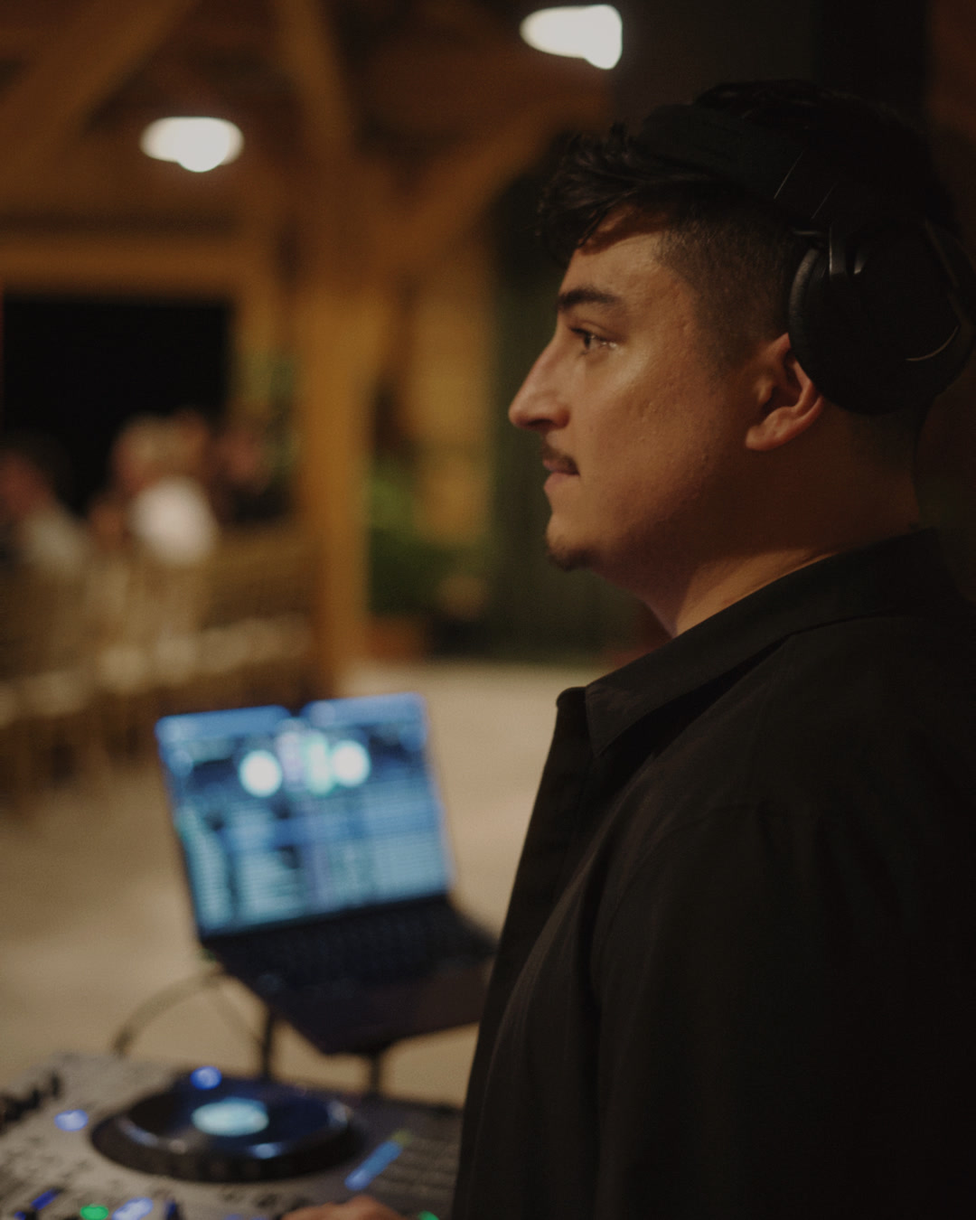
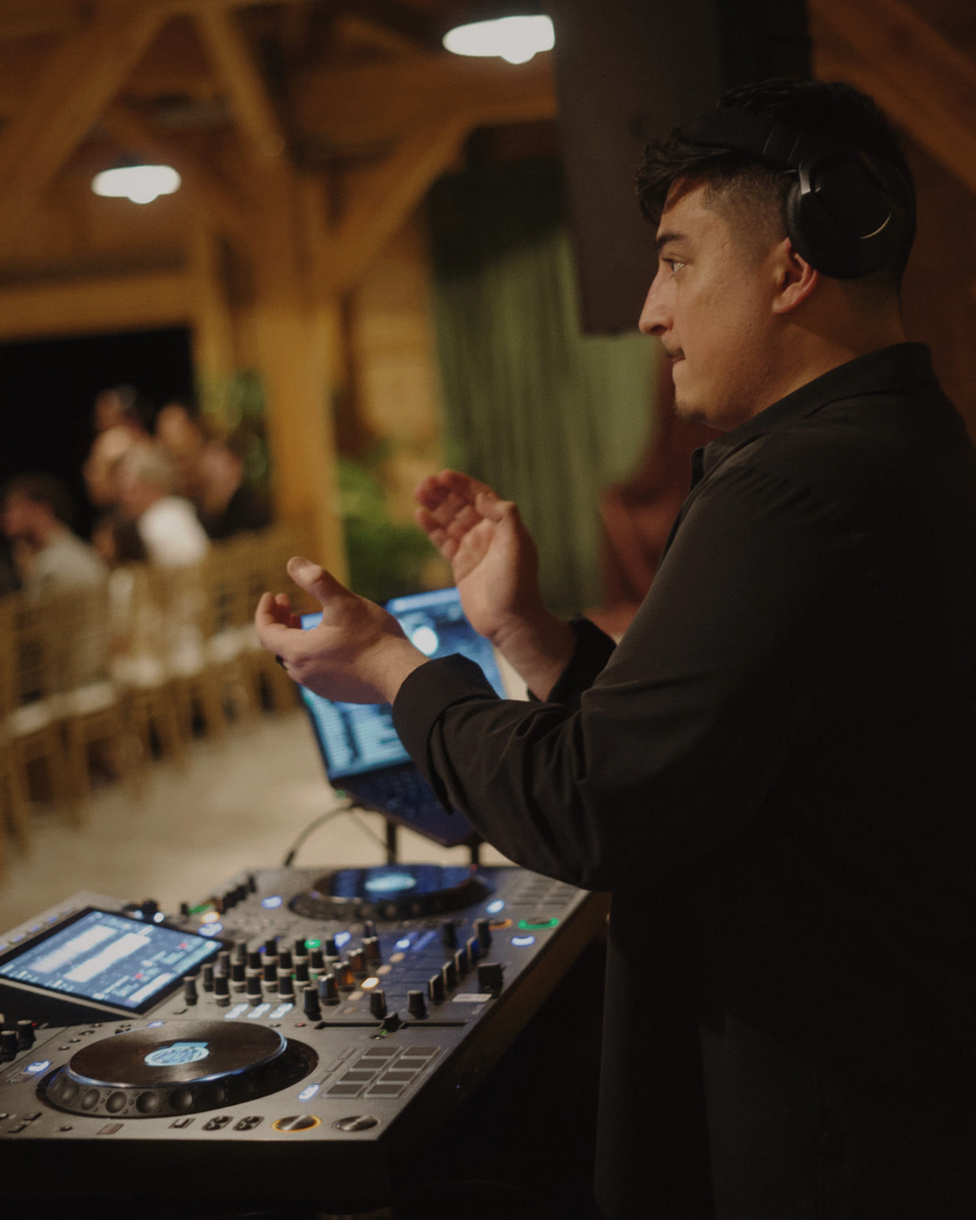
Privé: Alec's picks, window portrait as the header

diff --git a/residencies.html b/residencies.html
@@ -33,7 +33,7 @@
 <section class="proof"><div class="wrap"><dl class="nums"><div><dt>45</dt><dd>venues</dd></div><div><dt>11</dt><dd>residencies</dd></div><div><dt>7</dt><dd>headliners opened for</dd></div><div><dt>2017</dt><dd>active since</dd></div></dl></div></section>
 <section class="sec"><div class="wrap"><div class="head"><h2>Opened for</h2><p class="muted head-note">Handpicked to deliver opening sets for global electronic heavyweights.</p></div><div class="hls"><article class="hl"><h3>Alok</h3><p>House of Blues · 2017</p></article><article class="hl"><h3>Mochakk</h3><p>Wall Street Plaza · 2026</p></article><article class="hl"><h3>Cat Dealers</h3><p>The Attic · 2018</p></article><article class="hl"><h3>KVSH</h3><p>AURA Nightclub · 2024</p></article><article class="hl"><h3>Bhaskar</h3><p>The Vanguard · 2022</p></article><article class="hl"><h3>Victor Lou</h3><p>Celine Rooftop · 2024</p></article><article class="hl"><h3>Mr. Pauer</h3><p>Debonair Supper Club · 2025</p></article></div></div></section>
 <section class="sec"><div class="wrap"><div class="head"><h2>Residencies</h2><p class="muted head-note">Trusted selector for top-tier venues.</p></div><div class="rcs"><a class="rc pc" href="/works/the-h-orlando/"><div class="ph"><video class="loop" muted loop playsinline preload="none" aria-hidden="true" data-src-webm="/assets/img/video/rooms/the-h-orlando.webm" data-src-mp4="/assets/img/video/rooms/the-h-orlando.mp4"></video><img src="/assets/img/rooms/the-h-orlando/hero.jpg" style="object-position:50% 70%" data-face="0.526,0.418,0.715,0.619" data-wh="1200,1500" alt="Oteo at The H Orlando" loading="lazy"></div><div class="rt"><h3>The H Orlando</h3><p>2021 – 2022, 2026 · Dr. Phillips</p></div></a><a class="rc pc" href="/works/helena-modern-riviera/"><div class="ph"><video class="loop" muted loop playsinline preload="none" aria-hidden="true" data-src-webm="/assets/img/video/rooms/helena-modern-riviera.webm" data-src-mp4="/assets/img/video/rooms/helena-modern-riviera.mp4"></video><img src="/assets/img/ring-5.jpg" style="object-position:50% 33%" data-face="0.067,0.178,0.537,0.571" data-wh="900,1286" alt="Oteo at Helena Modern Riviera" loading="lazy"></div><div class="rt"><h3>Helena Modern Riviera</h3><p>2024 – 2026 · International Drive</p></div></a><a class="rc pc" href="/works/ava-mediterraegean/"><div class="ph"><video class="loop" muted loop playsinline preload="none" aria-hidden="true" data-src-webm="/assets/img/video/rooms/ava-mediterraegean.webm" data-src-mp4="/assets/img/video/rooms/ava-mediterraegean.mp4"></video><img src="/assets/img/rooms/ava-mediterraegean/hero.jpg" style="object-position:50% 20%" data-face="0.269,0.159,0.551,0.375" data-wh="901,1600" alt="Oteo at AVA MediterrAegean" loading="lazy"></div><div class="rt"><h3>AVA MediterrAegean</h3><p>2022 – 2024 · Winter Park</p></div></a><a class="rc pc" href="/works/debonair-supper-club/"><div class="ph"><video class="loop" muted loop playsinline preload="none" aria-hidden="true" data-src-webm="/assets/img/video/rooms/debonair-supper-club.webm" data-src-mp4="/assets/img/video/rooms/debonair-supper-club.mp4"></video><img src="/assets/img/rooms/debonair-supper-club/hero.jpg" style="object-position:50% 44%" data-face="0.406,0.28,0.656,0.539" data-wh="1200,1500" alt="Oteo at Debonair Supper Club" loading="lazy"></div><div class="rt"><h3>Debonair Supper Club</h3><p>2024 – 2026 · Downtown Orlando</p></div></a><a class="rc pc" href="/works/casa-mezcal/"><div class="ph"><img src="/assets/img/rooms/casa-mezcal/hero.jpg" style="object-position:50% 29%" data-face="0.449,0.197,0.701,0.472" data-wh="864,1080" alt="Oteo at Casa Mezcal" loading="lazy"></div><div class="rt"><h3>Casa Mezcal</h3><p>2026 · International Drive</p></div></a></div><div class="rcs small"><div class="rc sm"><h3>The Eye Orlando</h3><p>2024 – 2025 · International Drive</p></div><div class="rc sm"><h3>Elixir Orlando</h3><p>2018 – 2021 · Downtown Orlando</p></div><div class="rc sm"><h3>La Herradura</h3><p>2021 – 2024 · Orlando</p></div><div class="rc sm"><h3>The Lawn Bar at ICON Park</h3><p>2021 – 2023 · International Drive</p></div><div class="rc sm"><h3>Taverna Opa</h3><p>2018 – 2021 · International Drive</p></div><div class="rc sm"><h3>Bullitt Bar</h3><p>2020 – 2021 · Downtown Orlando</p></div></div></div></section>
-<section class="sec" id="work"><div class="wrap"><div class="head"><h2>Client work</h2><p class="muted head-note">Recent events, newest first.</p></div><div class="grid2"><a class="card" href="/work/prive-intimate-runway-florida-fashion-shows-2026/"><div class="ph"><img src="/assets/img/work/prive-intimate-runway-florida-fashion-shows-2026/hero.jpg" style="object-position:50% 6%" data-face="0.226,0.067,0.549,0.393" data-wh="1080,1350" alt="Oteo DJing Privé: An Intimate Runway" loading="lazy"></div><h3>Privé: An Intimate Runway</h3><p>Florida Fashion Shows · November 22, 2026</p></a><a class="card" href="/work/golden-night-orlando-style-magazine-2026/"><div class="ph"><img src="/assets/img/work/golden-night-orlando-style-magazine-2026/hero.jpg" style="object-position:0% 50%" data-face="0.262,0.273,0.438,0.516" data-wh="1140,1200" alt="Oteo DJing Golden Night" loading="lazy"></div><h3>Golden Night</h3><p>Orlando Style Magazine × Florida Fashion Shows · November 20, 2026</p></a></div><div class="rcs small gig-more"><div class="rc sm"><h3>EDC Orlando After Party</h3><p>Tom’s Watch Bar, Blue Room · November 7, 2026</p></div></div></div></section>
+<section class="sec" id="work"><div class="wrap"><div class="head"><h2>Client work</h2><p class="muted head-note">Recent events, newest first.</p></div><div class="grid2"><a class="card" href="/work/prive-intimate-runway-florida-fashion-shows-2026/"><div class="ph"><img src="/assets/img/work/prive-intimate-runway-florida-fashion-shows-2026/hero.jpg" style="object-position:50% 39%" data-face="0.433,0.249,0.616,0.501" data-wh="1080,1350" alt="Oteo DJing Privé: An Intimate Runway" loading="lazy"></div><h3>Privé: An Intimate Runway</h3><p>Florida Fashion Shows · November 22, 2026</p></a><a class="card" href="/work/golden-night-orlando-style-magazine-2026/"><div class="ph"><img src="/assets/img/work/golden-night-orlando-style-magazine-2026/hero.jpg" style="object-position:0% 50%" data-face="0.262,0.273,0.438,0.516" data-wh="1140,1200" alt="Oteo DJing Golden Night" loading="lazy"></div><h3>Golden Night</h3><p>Orlando Style Magazine × Florida Fashion Shows · November 20, 2026</p></a></div><div class="rcs small gig-more"><div class="rc sm"><h3>EDC Orlando After Party</h3><p>Tom’s Watch Bar, Blue Room · November 7, 2026</p></div></div></div></section>
 <section class="strip" aria-label="Oteo in the booth"><ul class="strip-track"><li><img src="/assets/img/strip/s1.jpg" style="object-position:50% 49%" data-face="0.181,0.305,0.393,0.561" data-wh="720,900" alt="Oteo in the booth at Palm Tree Club" width="720" height="900" loading="lazy"></li><li><img src="/assets/img/strip/s2.jpg" style="object-position:50% 48%" data-face="0.296,0.237,0.757,0.693" data-wh="720,900" alt="Oteo in the booth at Palm Tree Club" width="720" height="900" loading="lazy"></li><li><img src="/assets/img/strip/s3.jpg" style="object-position:50% 26%" data-face="0.085,0.182,0.284,0.408" data-wh="720,900" alt="Oteo in the booth at House of Blues" width="720" height="900" loading="lazy"></li><li><img src="/assets/img/strip/s4.jpg" style="object-position:50% 5%" data-face="0.569,0.061,0.792,0.419" data-wh="720,900" alt="Oteo in the booth at Debonair Supper Club" width="720" height="900" loading="lazy"></li><li><img src="/assets/img/strip/s5.jpg" style="object-position:50% 11%" data-face="0.309,0.094,0.597,0.423" data-wh="720,900" alt="Oteo in the booth at The H Orlando" width="720" height="900" loading="lazy"></li><li><img src="/assets/img/strip/s6.jpg" style="object-position:50% 12%" data-face="0.354,0.102,0.695,0.415" data-wh="720,900" alt="Oteo in the booth at Great Southern Box Co." width="720" height="900" loading="lazy"></li><li><img src="/assets/img/strip/s7.jpg" style="object-position:50% 12%" data-face="0.361,0.101,0.708,0.416" data-wh="720,900" alt="Oteo in the booth at The Tap" width="720" height="900" loading="lazy"></li><li aria-hidden="true"><img src="/assets/img/strip/s1.jpg" style="object-position:50% 49%" data-face="0.181,0.305,0.393,0.561" data-wh="720,900" alt="" width="720" height="900" loading="lazy"></li><li aria-hidden="true"><img src="/assets/img/strip/s2.jpg" style="object-position:50% 48%" data-face="0.296,0.237,0.757,0.693" data-wh="720,900" alt="" width="720" height="900" loading="lazy"></li><li aria-hidden="true"><img src="/assets/img/strip/s3.jpg" style="object-position:50% 26%" data-face="0.085,0.182,0.284,0.408" data-wh="720,900" alt="" width="720" height="900" loading="lazy"></li><li aria-hidden="true"><img src="/assets/img/strip/s4.jpg" style="object-position:50% 5%" data-face="0.569,0.061,0.792,0.419" data-wh="720,900" alt="" width="720" height="900" loading="lazy"></li><li aria-hidden="true"><img src="/assets/img/strip/s5.jpg" style="object-position:50% 11%" data-face="0.309,0.094,0.597,0.423" data-wh="720,900" alt="" width="720" height="900" loading="lazy"></li><li aria-hidden="true"><img src="/assets/img/strip/s6.jpg" style="object-position:50% 12%" data-face="0.354,0.102,0.695,0.415" data-wh="720,900" alt="" width="720" height="900" loading="lazy"></li><li aria-hidden="true"><img src="/assets/img/strip/s7.jpg" style="object-position:50% 12%" data-face="0.361,0.101,0.708,0.416" data-wh="720,900" alt="" width="720" height="900" loading="lazy"></li></ul></section>
 <section class="sec"><div class="wrap"><div class="head"><h2>Notable venues</h2></div><div class="rcs small two-col"><div class="rc sm"><h3>4Roots Farm</h3><p>2026 · Packing District</p></div><div class="rc sm"><h3>American Social</h3><p>2022 – 2023, 2025 – 2026 · Dr. Phillips</p></div><div class="rc sm"><h3>Aphrodisiaco</h3><p>2026 · International Drive</p></div><div class="rc sm"><h3>The Attic</h3><p>2018 · Downtown Orlando</p></div><div class="rc sm"><h3>AURA Nightclub</h3><p>2024 · Downtown Orlando</p></div><div class="rc sm"><h3>The Black Barn</h3><p>2025 · East Orlando</p></div><div class="rc sm"><h3>Boxi Park</h3><p>2022 · Lake Nona</p></div><div class="rc sm"><h3>Breeze Kissimmee</h3><p>2026 · Kissimmee</p></div><div class="rc sm"><h3>Celine Rooftop</h3><p>2024 – 2025 · Downtown Orlando</p></div><div class="rc sm"><h3>The Citrus Club</h3><p>2026 · Downtown Orlando</p></div><div class="rc sm"><h3>Corazón by Baires</h3><p>2025 · Orlando</p></div><div class="rc sm"><h3>Great Southern Box Co.</h3><p>2025 – 2026 · Orlando</p></div><div class="rc sm"><h3>The Hampton Social</h3><p>2024 · International Drive</p></div><div class="rc sm"><h3>House of Blues</h3><p>2017 · Disney Springs</p></div><div class="rc sm"><h3>Lake Eola Lounge</h3><p>2025 · Downtown Orlando</p></div><div class="rc sm"><h3>Lumiere</h3><p>2025 · Maitland</p></div><div class="rc sm"><h3>Luminescent</h3><p>2025 · East Orlando</p></div><div class="rc sm"><h3>Mango’s Tropical Café</h3><p>2025 – 2026 · International Drive</p></div><div class="rc sm"><h3>The Monroe</h3><p>2025 · Downtown Orlando</p></div><div class="rc sm"><h3>The Nectar Room at The Wave Hotel</h3><p>2025 · Lake Nona</p></div><div class="rc sm"><h3>OHM Orlando</h3><p>2026 · Downtown Orlando</p></div><div class="rc sm"><h3>Palm Tree Club</h3><p>2026 · International Drive</p></div><div class="rc sm"><h3>Penthouse+</h3><p>2026 · Downtown Orlando</p></div><div class="rc sm"><h3>Pretty Please</h3><p>2024 · Downtown Orlando</p></div><div class="rc sm"><h3>Say Less</h3><p>2026 · Downtown Orlando</p></div><div class="rc sm"><h3>Sessions Orlando</h3><p>2026 · Downtown Orlando</p></div><div class="rc sm"><h3>Sonydam Auto Sales</h3><p>2023 · Orlando</p></div><div class="rc sm"><h3>Taco Kat</h3><p>2024 · Downtown Orlando</p></div><div class="rc sm"><h3>Taqueale</h3><p>2026 · St. Cloud</p></div><div class="rc sm"><h3>They Flow</h3><p>2025 · Orlando</p></div><div class="rc sm"><h3>Tom’s Watch Bar</h3><p>2026 · International Drive</p></div><div class="rc sm"><h3>The Vanguard</h3><p>2022 · Downtown Orlando</p></div><div class="rc sm"><h3>The Vintage Speakeasy Bistro</h3><p>2025 · Orlando</p></div><div class="rc sm"><h3>Wall Street Plaza</h3><p>2026 · Downtown Orlando</p></div></div></div></section>
 <section class="sec" id="praise"><div class="wrap"><div class="head"><h2>Press</h2></div><div class="cols2 praise"><figure class="q"><blockquote>“The music was great so we had to see if it was pre-recorded or from a live DJ. It was the latter! In the booth, DJ Oteo (USA). … Oteo had the club bouncing. People were dancing pretty much anywhere they could.”</blockquote><figcaption><a class="ulink" href="https://www.orlandoentertainmentnews.com/?p=27206" rel="noopener">Orlando Entertainment News, March 30, 2024</a></figcaption></figure><figure class="q"><blockquote>“Friday/Saturday night resident DJ Oteo (USA) was in the corner booth. Pumping out House music during our visit.”</blockquote><figcaption><a class="ulink" href="https://www.orlandoentertainmentnews.com/?p=28949" rel="noopener">Orlando Entertainment News, July 27, 2024</a></figcaption></figure><figure class="q"><blockquote>“And it’s here we found DJ Oteo (USA) on the decks at one end of the building. The DJ begins at 10PM while many are still dining but things don’t get cranked up until after 11PM. By midnight they’ll clear a bunch of tables to create a dance floor.”</blockquote><figcaption><a class="ulink" href="https://www.orlandoentertainmentnews.com/?p=11343" rel="noopener">Orlando Entertainment News, July 17, 2021</a></figcaption></figure><figure class="q"><blockquote>“DJ Oteo … starts spinning, and the entire energy transforms. We’re talking big bass, real energy.”</blockquote><figcaption><a class="ulink" href="https://agoodtaco.com/steak-smoke-sound-the-h-orlando-review-nobody-warned-your-taste-buds-about" rel="noopener">A Good Taco, June 24, 2025</a></figcaption></figure></div></div></section>

diff --git a/fashion-show-dj-orlando.html b/fashion-show-dj-orlando.html
@@ -28,12 +28,12 @@
 </div></header>
 <div class="sheet" id="sheet" hidden><div class="wrap"><nav aria-label="Main"><a href="/residencies">Track Record</a><a href="/blog/">Sets</a><a href="/rentals">Gear Rentals</a><a href="/about">About</a><a href="/presskit">Press Kit</a></nav><a class="btn" href="/booking#inquiry">Book a date</a></div></div>
 <main id="main">
-<section class="hero room-hero"><div class="wrap hero-grid"><div class="hero-ph"><img src="/assets/img/events/fashion-shows.jpg" style="object-position:50% 39%" data-face="0.433,0.249,0.616,0.501" data-wh="1080,1350" alt="Oteo DJing" fetchpriority="high"></div>
+<section class="hero room-hero"><div class="wrap hero-grid"><div class="hero-ph"><img src="/assets/img/events/fashion-shows.jpg" style="object-position:50% 6%" data-face="0.226,0.067,0.549,0.393" data-wh="1080,1350" alt="Oteo DJing" fetchpriority="high"></div>
 <div class="hero-copy"><p class="kicker">Fashion shows</p><h1 class="room-h1" style="--len:7">Fashion show DJ in Orlando</h1><p class="lead">Runway shows, designer showcases and fashion parties across Central Florida.</p>
 <div class="ctas"><a class="btn" href="/booking#inquiry">Book a date</a></div></div></div></section>
 <section class="sec"><div class="wrap split"><h2>The night</h2><div class="stack prose"><p>Oteo plays fashion House: polished, upbeat and made for the runway. He tailors the music to the designer’s direction, cues it to the run of show, and carries the room before and after the walk.</p><p>Recent shows include Golden Night for Orlando Style Magazine × Florida Fashion Shows and Privé: An Intimate Runway for Florida Fashion Shows. He brings his own Pioneer DJ and AlphaTheta decks and PA, delivered and set up anywhere in Central Florida, or plays on the venue’s system.</p></div></div></section>
 <section class="sec"><div class="wrap split"><h2>Included</h2><div class="list"><div class="li"><h3>Runway soundtrack</h3><p>Fashion House tailored to the designer’s direction and cued to the run of show.</p></div><div class="li"><h3>Reception and after-party</h3><p>Music for arrivals, the cocktail hour and the celebration that follows.</p></div><div class="li"><h3>Sound and DJ production</h3><p>Professional sound and a DJ booth, installed before doors open.</p></div></div></div></section>
-<section class="sec"><div class="wrap"><div class="head"><h2>Recent shows</h2></div><div class="grid2"><a class="card" href="/work/prive-intimate-runway-florida-fashion-shows-2026/"><div class="ph"><img src="/assets/img/work/prive-intimate-runway-florida-fashion-shows-2026/hero.jpg" style="object-position:50% 6%" data-face="0.226,0.067,0.549,0.393" data-wh="1080,1350" alt="Oteo DJing Privé: An Intimate Runway" loading="lazy"></div><h3>Privé: An Intimate Runway</h3><p>Florida Fashion Shows · November 22, 2026</p></a><a class="card" href="/work/golden-night-orlando-style-magazine-2026/"><div class="ph"><img src="/assets/img/work/golden-night-orlando-style-magazine-2026/hero.jpg" style="object-position:0% 50%" data-face="0.262,0.273,0.438,0.516" data-wh="1140,1200" alt="Oteo DJing Golden Night" loading="lazy"></div><h3>Golden Night</h3><p>Orlando Style Magazine × Florida Fashion Shows · November 20, 2026</p></a></div></div></section>
+<section class="sec"><div class="wrap"><div class="head"><h2>Recent shows</h2></div><div class="grid2"><a class="card" href="/work/prive-intimate-runway-florida-fashion-shows-2026/"><div class="ph"><img src="/assets/img/work/prive-intimate-runway-florida-fashion-shows-2026/hero.jpg" style="object-position:50% 39%" data-face="0.433,0.249,0.616,0.501" data-wh="1080,1350" alt="Oteo DJing Privé: An Intimate Runway" loading="lazy"></div><h3>Privé: An Intimate Runway</h3><p>Florida Fashion Shows · November 22, 2026</p></a><a class="card" href="/work/golden-night-orlando-style-magazine-2026/"><div class="ph"><img src="/assets/img/work/golden-night-orlando-style-magazine-2026/hero.jpg" style="object-position:0% 50%" data-face="0.262,0.273,0.438,0.516" data-wh="1140,1200" alt="Oteo DJing Golden Night" loading="lazy"></div><h3>Golden Night</h3><p>Orlando Style Magazine × Florida Fashion Shows · November 20, 2026</p></a></div></div></section>
 
 <section class="sec"><div class="wrap split"><h2>Questions</h2><div class="faq"><details><summary>Can the music follow our reference?<span class="x" aria-hidden="true"></span></summary><p>Yes. Send a show or a playlist you like and he builds the set around it.</p></details><details><summary>Can he time the music to the runway?<span class="x" aria-hidden="true"></span></summary><p>Yes. Send the run of show with the designer order and the cues.</p></details><details><summary>Does he bring sound?<span class="x" aria-hidden="true"></span></summary><p>Yes. Speakers and decks come from his own gear.</p></details></div></div></section>
 <section class="sec"><div class="wrap split"><h2>More</h2><div class="stack"><p><a class="more" href="/residencies">Every venue he has played</a></p><p><a class="more" href="/wedding-dj-orlando">Weddings</a></p><p><a class="more" href="/corporate-event-dj-orlando">Corporate events</a></p><p><a class="more" href="/private-party-dj-orlando">Private parties</a></p><p><a class="more" href="/restaurant-lounge-dj-orlando">Restaurants and lounges</a></p></div></div></section>

diff --git a/work/prive-intimate-runway-florida-fashion-shows-2026/index.html b/work/prive-intimate-runway-florida-fashion-shows-2026/index.html
@@ -28,11 +28,11 @@
 </div></header>
 <div class="sheet" id="sheet" hidden><div class="wrap"><nav aria-label="Main"><a href="/residencies">Track Record</a><a href="/blog/">Sets</a><a href="/rentals">Gear Rentals</a><a href="/about">About</a><a href="/presskit">Press Kit</a></nav><a class="btn" href="/booking#inquiry">Book a date</a></div></div>
 <main id="main">
-<section class="hero room-hero"><div class="wrap hero-grid"><div class="hero-ph"><img src="/assets/img/work/prive-intimate-runway-florida-fashion-shows-2026/hero.jpg" style="object-position:50% 6%" data-face="0.226,0.067,0.549,0.393" data-wh="1080,1350" alt="Oteo DJing Privé: An Intimate Runway" fetchpriority="high"></div>
+<section class="hero room-hero"><div class="wrap hero-grid"><div class="hero-ph"><img src="/assets/img/work/prive-intimate-runway-florida-fashion-shows-2026/hero.jpg" style="object-position:50% 39%" data-face="0.433,0.249,0.616,0.501" data-wh="1080,1350" alt="Oteo DJing Privé: An Intimate Runway" fetchpriority="high"></div>
 <div class="hero-copy"><p class="kicker">Florida Fashion Shows</p><h1 class="room-h1" style="--len:8">Privé: An Intimate Runway</h1><p class="lead">An afternoon runway presentation by Florida Fashion Shows at 4Roots Farm, Orlando, with music by Oteo.</p></div></div></section>
 <section class="proof"><div class="wrap"><dl class="facts"><div><dt>Presented by</dt><dd>Florida Fashion Shows</dd></div><div><dt>Event</dt><dd>Fashion show</dd></div><div><dt>Date</dt><dd>November 22, 2026</dd></div><div><dt>Venue</dt><dd>4Roots Farm, Packing District, Orlando</dd></div></dl></div></section>
 <section class="sec"><div class="wrap split"><h2>The event</h2><div class="stack prose"><p>Privé: An Intimate Runway brought three designers to one runway at 4Roots Farm, followed by a cocktail reception.</p><p>Oteo was the DJ for the afternoon, setting the tone for the reception and scoring the runway on a House beat. He provided the full sound and DJ production.</p><p><a class="more" href="/fashion-show-dj-orlando">Book Oteo for a fashion show</a></p></div></div></section>
-<section class="photos"><div class="wrap"><div class="ph wide"><img src="/assets/img/work/prive-intimate-runway-florida-fashion-shows-2026/wide.jpg" style="object-position:63% 50%" data-face="0.517,0.202,0.63,0.471" data-wh="1920,1080" alt="Oteo DJing Privé: An Intimate Runway" loading="lazy"></div></div></section><section class="photos"><div class="wrap two"><div class="ph"><img src="/assets/img/work/prive-intimate-runway-florida-fashion-shows-2026/a.jpg" style="object-position:50% 11%" data-face="0.463,0.044,0.818,0.492" data-wh="1080,1350" alt="Oteo at 4Roots Farm" loading="lazy"></div><div class="ph"><img src="/assets/img/work/prive-intimate-runway-florida-fashion-shows-2026/b.jpg" style="object-position:50% 2%" data-face="0.628,0.047,0.822,0.369" data-wh="1080,1350" alt="Oteo at 4Roots Farm" loading="lazy"></div></div></section>
+<section class="photos"><div class="wrap"><div class="ph wide"><img src="/assets/img/work/prive-intimate-runway-florida-fashion-shows-2026/wide.jpg" style="object-position:63% 50%" data-face="0.517,0.202,0.63,0.471" data-wh="1920,1080" alt="Oteo DJing Privé: An Intimate Runway" loading="lazy"></div></div></section><section class="photos"><div class="wrap two"><div class="ph"><img src="/assets/img/work/prive-intimate-runway-florida-fashion-shows-2026/a.jpg" style="object-position:50% 2%" data-face="0.628,0.047,0.822,0.369" data-wh="1080,1350" alt="Oteo at 4Roots Farm" loading="lazy"></div><div class="ph"><img src="/assets/img/work/prive-intimate-runway-florida-fashion-shows-2026/b.jpg" style="object-position:50% 11%" data-face="0.463,0.044,0.818,0.492" data-wh="1080,1350" alt="Oteo at 4Roots Farm" loading="lazy"></div></div></section>
 
 
 <section class="sec"><div class="wrap split"><div class="stack"><h2>More client work</h2><p><a class="more" href="/residencies#work">Full track record</a></p></div><div><a class="card" href="/work/golden-night-orlando-style-magazine-2026/"><div class="ph"><img src="/assets/img/work/golden-night-orlando-style-magazine-2026/hero.jpg" style="object-position:0% 50%" data-face="0.262,0.273,0.438,0.516" data-wh="1140,1200" alt="Oteo DJing Golden Night" loading="lazy"></div><h3>Golden Night</h3><p>Orlando Style Magazine × Florida Fashion Shows · November 20, 2026</p></a></div></div></section>

diff --git a/work/golden-night-orlando-style-magazine-2026/index.html b/work/golden-night-orlando-style-magazine-2026/index.html
@@ -35,7 +35,7 @@
 <section class="photos"><div class="wrap two"><div class="ph"><img src="/assets/img/work/golden-night-orlando-style-magazine-2026/a.jpg" style="object-position:50% 61%" data-face="0.436,0.373,0.597,0.563" data-wh="1080,1350" alt="Oteo at The Citrus Club" loading="lazy"></div><div class="ph"><img src="/assets/img/work/golden-night-orlando-style-magazine-2026/b.jpg" alt="Oteo at The Citrus Club" loading="lazy"></div></div></section>
 <section class="sec"><div class="wrap"><div class="head"><h2>Watch</h2></div><div class="vids"><figure class="vid"><video controls playsinline preload="none" poster="/assets/img/video/work/golden-night-runway.jpg"><source src="/assets/img/video/work/golden-night-runway.mp4" type="video/mp4"></video><figcaption class="muted">The runway, from the DJ booth</figcaption></figure><figure class="vid"><video controls playsinline preload="none" poster="/assets/img/video/work/golden-night-room.jpg"><source src="/assets/img/video/work/golden-night-room.mp4" type="video/mp4"></video><figcaption class="muted">The ballroom during the show</figcaption></figure></div></div></section>
 <section class="sec"><div class="wrap"><figure class="q big"><blockquote>“Awesome work last night.”</blockquote><figcaption>Orlando Style Magazine, 2026</figcaption></figure></div></section>
-<section class="sec"><div class="wrap split"><div class="stack"><h2>More client work</h2><p><a class="more" href="/residencies#work">Full track record</a></p></div><div><a class="card" href="/work/prive-intimate-runway-florida-fashion-shows-2026/"><div class="ph"><img src="/assets/img/work/prive-intimate-runway-florida-fashion-shows-2026/hero.jpg" style="object-position:50% 6%" data-face="0.226,0.067,0.549,0.393" data-wh="1080,1350" alt="Oteo DJing Privé: An Intimate Runway" loading="lazy"></div><h3>Privé: An Intimate Runway</h3><p>Florida Fashion Shows · November 22, 2026</p></a></div></div></section>
+<section class="sec"><div class="wrap split"><div class="stack"><h2>More client work</h2><p><a class="more" href="/residencies#work">Full track record</a></p></div><div><a class="card" href="/work/prive-intimate-runway-florida-fashion-shows-2026/"><div class="ph"><img src="/assets/img/work/prive-intimate-runway-florida-fashion-shows-2026/hero.jpg" style="object-position:50% 39%" data-face="0.433,0.249,0.616,0.501" data-wh="1080,1350" alt="Oteo DJing Privé: An Intimate Runway" loading="lazy"></div><h3>Privé: An Intimate Runway</h3><p>Florida Fashion Shows · November 22, 2026</p></a></div></div></section>
 <section class="cta"><div class="wrap"><h2>Book a date</h2><p>Send the date, the venue and the kind of event. Oteo replies within 48 hours with availability and a quote.</p>
 <div class="ctas"><a class="btn" href="/booking#inquiry">Send an inquiry</a><a class="btn alt" href="mailto:oteo@djoteo.com">oteo@djoteo.com</a></div></div></section>
 </main>
